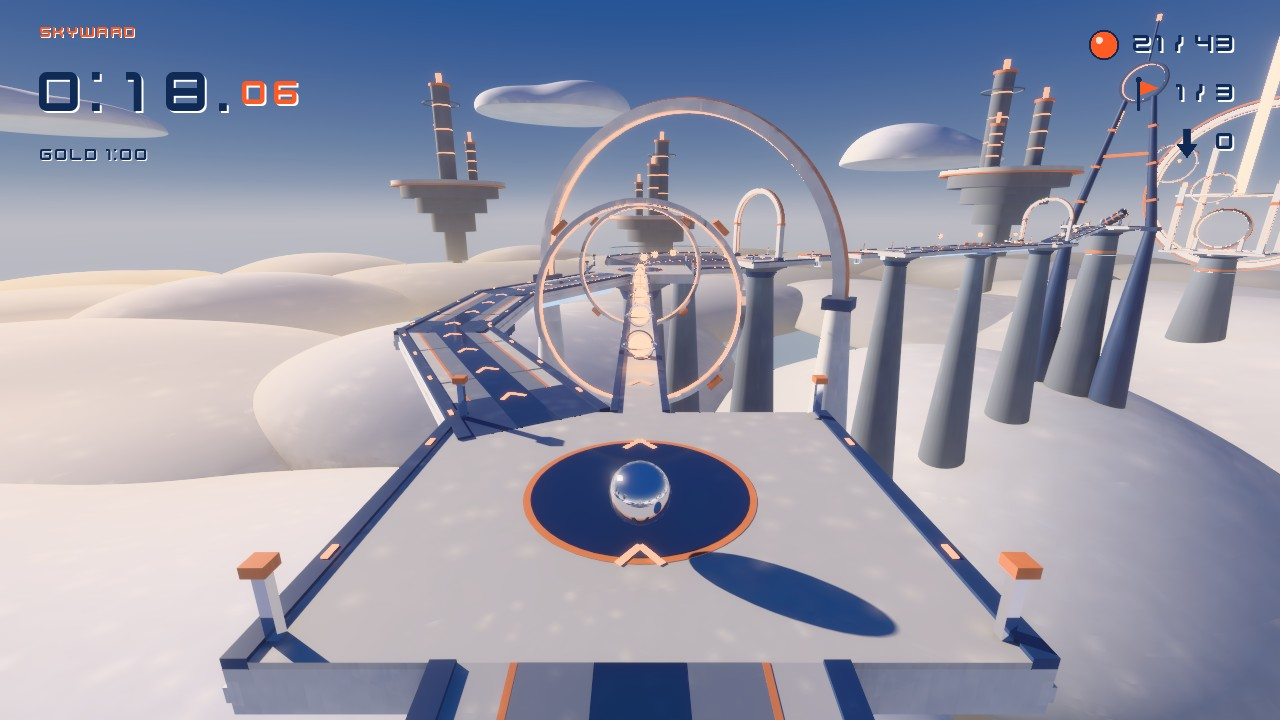
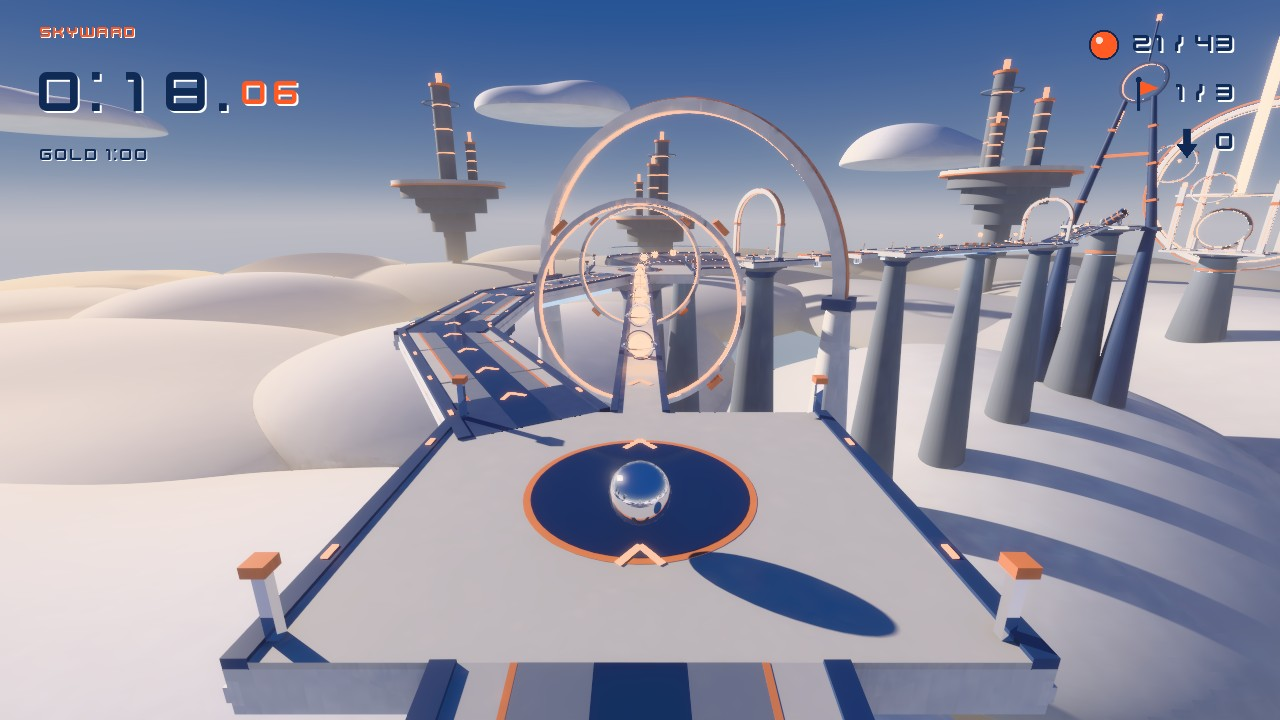
Glint: stills re-shot on Ara main b958132fd, where sun shadows reach the clouds; FINDINGS 33 is fixed
The renderer pinned on main draws sun shadows to 1 km, so the pylons, rings, lattice,
towers and far decks now shadow the cloud deck.

- preview/: the eleven replay stills and the six review views re-shot on the M5
  (Renderlab fdf2fb05). The title, the course page and pause are not.
- preview/defects/cloud_shadows_*_fixed.jpg: the three sheets of item 33 again, with the
  pylons and the course switched to cast no shadow at run time.
- FINDINGS 33: fixed, with the measurements; the clouds are left as they are (the edge is
  the sun's own penumbra; no level or copy changes); the mottle inside big shadows; the
  dashes at the goal are the orbs' shadows.
- FINDINGS 5 and the README point at the re-shot stills.

diff --git a/samples/glint/FINDINGS.md b/samples/glint/FINDINGS.md
@@ -82,7 +82,7 @@ Items marked *from reading* were not confirmed by running. Renderlab was not tou
    0.00%), at the same shading time. The disc's 300 m shadow was not re-tested: with the disc
    moved onto the sun's direction and forced to cast, today's renderer drew no such shadow
    either way, so the test says nothing. The 2.6 degree workaround is left in place. The
-   committed stills predate the fix and are re-shot with the cloud-shadow sheets.
+   committed stills were re-shot after it (item 33).
 6. **`ara capture` could not show a UI screen, and nothing can click through the shell.**
    *Wanted:* stills of the title and the course page. *Happened:* a capture always drew the
    in-game HUD, so for five rounds the title was never seen; when it finally was, it had four
@@ -242,7 +242,37 @@ Items marked *from reading* were not confirmed by running. Renderlab was not tou
     opacity or animation in the UI subset (item 7) they switch off instead: shown until the
     first input of the session, and again only after seven idle seconds in a run.
 
-33. **The pylons cast no shadow on the clouds; the decks do.** Asked by the Unreal
+33. **Fixed (Ara main `b958132fd`, Renderlab `fdf2fb05`: sun shadows to 1 km): the pylons
+    cast no shadow on the clouds; the decks did.** On the M5 the pylons now stripe the clouds
+    under the course, and the rings, the bridge lattice, the towers and the far decks reach
+    them too. The same three views, with the pylons and then the course switched to cast no
+    shadow at run time (`castShadows`, honoured since item 5's fix) and back:
+
+    | View | Pylons not casting | Course not casting | The same frame twice |
+    |---|---|---|---|
+    | Overview | 4.9% of pixels by more than 8 levels | 1.8% | 0.5% |
+    | Start | 1.9% | 3.7% | 0.3% |
+    | Goal | 1.3% | 1.0% | 0.2% |
+
+    Sheets, laid out as before:
+    [`cloud_shadows_over_fixed.jpg`](preview/defects/cloud_shadows_over_fixed.jpg),
+    [`cloud_shadows_start_fixed.jpg`](preview/defects/cloud_shadows_start_fixed.jpg),
+    [`cloud_shadows_goal_fixed.jpg`](preview/defects/cloud_shadows_goal_fixed.jpg). The stills
+    in `preview/` are re-shot on that main. Seen on the same shots (M5, traced path):
+    - **The clouds are left as they are.** They are solid white mounds and take the shadows
+      as such. The edge is the sun's: the renderer draws the penumbra of its 0.54 degrees
+      (at 0.05 degrees the cloud shadows are crisper, at 2 degrees the lattice's dissolve
+      into soft bands), so shadows thrown from 45 m up are already softer than the ones on
+      the deck. A wider sun would soften the clouds' shadows and the deck's crisp ones
+      alike, which is the course's look; Ara has no switch for a mesh that receives no
+      shadow; and the Unreal and Unity copies already draw these shadows. Nothing changes
+      in the level or its copies.
+    - The inside of a big shadow on the cloud is mottled: blotches a few levels either way
+      under the goal's deck, where the sunlit cloud beside it is even. The indirect light's
+      blotches (as in Atelier), which the sun used to hide.
+    - The row of small dashes between the hoops' shadows at the goal is the orbs' shadows:
+      with the 43 orbs switched to cast none, the dashes go and nothing else changes.
+    *As first found.* Asked by the Unreal
     side-by-sides, where hardware Lumen draws the bridge lattice's shadow on the right-hand
     cloud at the start and pylon shadows across the clouds at the goal, and Ara shows almost
     none. *What the scene asks for:* every course piece, pylon, ring and cloud bank casts and

diff --git a/samples/glint/README.md b/samples/glint/README.md
@@ -214,5 +214,7 @@ as a still, and a still is taken right after a history cut. `ara-samples glint-r
 - `compare/` numbers and camera path for the three-engine comparison, and export notes.
 - `preview/` stills (1280 x 720 JPEG): eleven taken mid-run by the replay, five review views,
   the title, the course page and pause; `preview/defects/` holds renderer evidence.
+  The run and review stills are from Ara main `b958132fd` (Renderlab `fdf2fb05`, M5 Pro), with
+  sun shadows reaching the clouds; the title, the course page and pause are older.
 - `repro/alpha-black/` the minimal alpha-blend reproducer (Renderlab #65).
 - [`FINDINGS.md`](FINDINGS.md) what building this through Ara's own interfaces showed.
